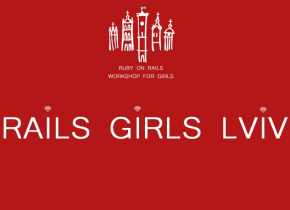
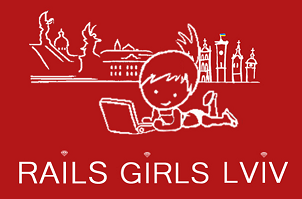
Some styles and photo added

diff --git a/lviv.html b/lviv.html
@@ -8,7 +8,7 @@
   <title>Lviv 18th April 2015</title>
 
 <!--  Write a metatext. This is what will show on the Facebook page and for instance search engines. -->
-
+  <link href='http://fonts.googleapis.com/css?family=Quicksand' rel='stylesheet' type='text/css'>
   <meta name="description" content="Rails Girls goes (insert cityname) (insert date): join the two-day crash-course to the exciting world of building web applications with Ruby on Rails.">
   <meta name="author" content="Rails Girls">
 
@@ -16,18 +16,25 @@
   <link rel="apple-touch-icon" href="/apple-touch-icon.png">
 
   <link rel="stylesheet" href="./css/style.css">
-
-  <script type="text/javascript" src="https://ajax.googleapis.com/ajax/libs/jquery/1.4.4/jquery.min.js"></script>
+  <link rel="stylesheet" href="https://maxcdn.bootstrapcdn.com/bootstrap/3.3.4/css/bootstrap.min.css">
+  <link rel="stylesheet" href="https://maxcdn.bootstrapcdn.com/bootstrap/3.3.4/css/bootstrap-theme.min.css">
   <script type="text/javascript" src="main.js"></script>
   <script type="text/javascript" src="https://apis.google.com/js/plusone.js"></script>
   <script type="text/javascript" src="//use.typekit.net/nbs6fzt.js"></script>
   <script type="text/javascript">try{Typekit.load();}catch(e){}</script>
-
 	<meta property="og:image" content="http://railsgirls.com/images/railsgirls-sq.png"/>
       <!--[if lt IE 9]>
       <script src="//html5shim.googlecode.com/svn/trunk/html5.js"></script>
       <![endif]-->
     </head>
+    <style>
+    .lviv#promo h1, h2, h3, h4, p, a{
+      font-family: 'Quicksand', sans-serif;
+    }
+    .page h1, a, p{
+      font-family: 'Quicksand', sans-serif;
+    }
+    </style>
     <body>
 
         <header>
@@ -44,74 +51,6 @@
         </div>
         </header>
 
-
-<!--   How to change the picture & header for site
-In the assets folder there is something called rg-header.psd. Be sure to download the fonts also. Name the file rg-yourcityname-header.png and your city picture rg-yourcityname.png. Add them to /images.
-
-Steps to show on site
-1. Go to style.css
-2. Add these lines, always replacing 'yourcityname' with your actual city name.
-
-        .yourcityname#promo {
-          padding-left:340px;
-          background:url('../images/rg-yourcityname.png') no-repeat 0 10px,
-                         url('../images/separator.png') no-repeat center bottom;
-        }
-
-        It will take a while before the changes show, so don't panic!
-
--->
-
-
-<!--  Change the header text. You can include a local hello or something else that brings context. Remember to mention the workshop is free. Remember to change to wufoo form link and dates. -->
-<!--  <div id="container" class="container_12 page clearfix">
-      <div class="grid_12 omega alpha">
-        <div id="promo" class="lviv">
-        <h1>Rails Girls Lviv
-            <small>(dates) 2015</small>
-        </h1>
-        <p>Hello world!</p>
-        <p>
-            Hurray! Rails Girls comes to Lviv! During the free one-day workshop we'll dive into the magical world of Ruby on Rails. </p>
-        <p>Apply now! <a href="http://railsgirls.wufoo.com/forms/z7x0w7/">Applications</a> are open until the (insert date).</p> -->
-
-
-<!--  Update the sharing texts.-->
-
-<!--          <div id="share">
-
-            <div>
-
-            <div style="margin:0 15px 0 0;">
-              <a href="http://twitter.com/share" class="twitter-share-button" data-url="" data-text="Rails Girls (insert city) (insert date)  - apply now!" data-count="horizontal" data-via="railsgirls" data-related="railsgirls">
-            Tweet</a>
-              <script type="text/javascript" src="http://platform.twitter.com/widgets.js"></script>
-            </div>
-
-            <div id="fb-root" style=""></div>
-            <script src="http://connect.facebook.net/en_US/all.js#appId=156007477805811&amp;xfbml=1"></script>
-            <fb:like href="" layout="button_count" send="true" width="160" show_faces="false" font=""></fb:like>
-
-          </div>
-        </p>
-        </div>
-      </div>
-
-
-<!--  You can use here your own contact e-mail, or we can send you the e-mails from contact@! -->
-
-    <!--  <div class="grid_4 alpha feature">
-       <p><strong>You learn</strong> designing, prototyping and coding with the help from our coaches.</p>
-      </div>
-      <div class="grid_4 feature">
-        <p><strong>All You need</strong> is LOVE. But also you should bring your own laptop, curiosity and a sprinkle of imagination!</p>
-      </div>
-      <div class="grid_4 omega feature">
-        <p><strong>Want to help?</strong> We are looking for volunteers and Rails coaches. <a href="mailto:contact@railsgirls.com">Email us</a>.</p>
-      </div>
-
-      <hr />
--->
 <div id="container" class="container_12 page clearfix">
       <div class="grid_12 omega alpha">
         <div id="promo" class="lviv">
@@ -120,8 +59,10 @@ Steps to show on site
         </h1>
         <p>
             Hurray! Rails Girls comes to Lviv! During the free one-day workshop we'll dive into the magical world of Ruby on Rails. </p>
-        <p>Apply now! <a href="http://goo.gl/forms/9MuXT1xIMJ">Applications</a> are open until the 30th March.</p>
-        <p>If you want to be a mentor, please fill in this form! <a href="http://goo.gl/forms/DKYFPr5BRw">Applications</a> are open until the 30th March.</p>
+        <p>Apply now! Applications are open until the 30th March. </p> 
+        <p><a style="color:#d3360b" href="http://goo.gl/forms/9MuXT1xIMJ">Applications for participants</a> </p>
+        <p><a style="color:#d3360b" href="http://goo.gl/forms/DKYFPr5BRw">Applications for mentors</a> </p>
+        
 
 
 <!--  Update the sharing texts.-->
@@ -131,7 +72,7 @@ Steps to show on site
             <div>
 
             <div style="margin:0 15px 0 0;">
-              <a href="http://twitter.com/share" class="twitter-share-button" data-url="" data-text="Rails Girls Lviv 2015" data-count="horizontal" data-via="RailsGirlsDH" data-related="railsgirls">
+              <a href="http://twitter.com/share" class="twitter-share-button" data-url="" data-text="Rails Girls Lviv 2015 #RailsGirlsLviv" data-count="horizontal" data-via="RailsGirlsDH" data-related="railsgirls">
             Tweet</a>
               <script type="text/javascript" src="http://platform.twitter.com/widgets.js"></script>
             </div>
@@ -151,12 +92,17 @@ Steps to show on site
         <p><strong>You need </strong> is love, but also you need your own laptop, curiosity and a sprinkle of imagination!</p>
       </div>
       <div class="grid_4 omega feature">
-        <p><strong>Want to help?</strong> We are thinking ahead to our next workshop. If you are interested in helping in the future, please <a href="mailto:railsgirlsdh@gmail.com">email us</a>.</p>
+        <p><strong>Want to help?</strong> We are thinking ahead to our next workshop. If you are interested in helping in the future, please <a style="color:#d3360b" href="mailto:railsgirlsdh@gmail.com">email us</a>.</p>
       </div>
-      
       <hr />
 <!--  Update the texts! -->
-
+<div class="container_12">
+<div class="grid_12 alpha">
+      <h1 class="text-center"> It's time to code!
+        </h1><br>
+        <img src="./images/lviv/rails-girls.jpg" class="img-rounded">
+      </div>
+    </div>
       <div class="grid_6 alpha">
         <h2>Saturday 18th April</h2>
         <table id="schedule">
@@ -165,7 +111,7 @@ Steps to show on site
               <th>9.00 - 10.00</th>
               <td>
                 <h4>Registration & Installation </h4>
-                  Get know the attendees a little bit before hand. Bring your laptop if you can, so we can install Ruby on Rails for you.<br>
+                  Get know the attendees a little bit beforehand. Bring your laptop if you can, so we can install Ruby on Rails for you.<br>
                   
 
 
@@ -231,7 +177,7 @@ Steps to show on site
             <tr>
               <th>19:00</th>
               <td>
-                <h4>Hell yeah, afterparty!</h4>
+                <h4>Hell yeah, the end!</h4>
                   <br>
               </td></tr>
             </tr>
@@ -247,7 +193,7 @@ Steps to show on site
 
         <h3>Information</h3>
             <p>
-              <p><strong><a href="http://railsgirls.wufoo.com/forms/yourcity/">Applications</a> close:</strong> March 30th<br/>
+              <p><strong><a style="color:#d3360b" href="http://railsgirls.wufoo.com/forms/yourcity/">Applications</a> close:</strong> March 30th<br/>
                 <strong>Acceptances informed:</strong>April 3th</p>
               <strong>Location:</strong> Business Center, 2nd-4th floor
 3 George Washington St.
@@ -264,9 +210,9 @@ Lviv
        <h3>Partners</h3>
 
        <p>Rails Girls Lviv is co-organized with our awesome partners.</p><p>
-         <p>Want to help? We're looking for partners & sponsors for the non-profit event! <a href="mailto:railsgirlslviv@gmail.com>">Email us</a>! </p>
+         <p>Want to help? We're looking for partners & sponsors for the non-profit event! <a style="color:#d3360b" href="mailto:railsgirlslviv@gmail.com>">Email us</a>! </p>
          <p>
-           <a href="http://www.dataart.ru/contacts/lviv/" style="float:right; margin:0 0 0; border:0;"><img height='150px' src="./images/lviv/dataart.png" alt="Data ART"></a>
+           <a href="http://www.dataart.ru/contacts/lviv/" style="float:right; margin:0 0 0; border:0;"><img height='150px' src="./images/lviv/dataart.png" alt="Data ART" class="img-rounded"></a>
          <a href="http://www.dataart.ru/">DataART</a> is a technology consulting firm that designs and builds custom software systems. "We partner with clients to create and support innovative solutions that help businesses become a lasting success in the marketplace."</p>
      <hr/>
      <h3>FAQ</h3>
@@ -283,7 +229,7 @@ Lviv
        </p>
        <p>
          <strong>I know how to program - How can I help?</strong>
-         We’re also looking for people to be coaches. We’ll have a two-three hour workshop before the event to walk you through the curriculum. <a href="mailto:railsgirlslviv@gmail.com>">Email us</a>
+         We’re also looking for people to be coaches. We’ll have a two-three hour workshop before the event to walk you through the curriculum. <a style="color:#d3360b" href="mailto:railsgirlslviv@gmail.com>">Email us</a>
        </p>
 
 
@@ -295,26 +241,27 @@ Lviv
       <div class="coaches">
         <hr />
         <h2>Rails Girls Lviv Family</h2>
+        <br>
 
         <a href="https://twitter.com/korytsya" class="grid_3">
-            Oksana Kunikevych, organizer
-            <small>@korytsya</small>
+          <img height='50px' width='50px' src="./images/lviv/Рисунок3.png" class="img-circle">
+            <small>Oksana Kunikevych, organizer</small>
         </a>
         <a href="https://twitter.com/_Marichka______" class="grid_3">
-            Marichka Dzhala, organizer
-            <small>@_Marichka______</small>
+          <img height='50px' width='50px' src="./images/lviv/Рисунок4.png" class="img-circle">
+            <small>Marichka Dzhala, organizer</small>
         </a>
         <a href="https://twitter.com/terii8" class="grid_3">
-            Tereza Kavinska, organizer
-            <small>@terii8</small>
+          <img height='50px' width='50px' src="./images/lviv/Рисунок1.png" class="img-circle">
+            <small>Tereza Kavinska, organizer</small>
         </a>
         <a href="https://www.facebook.com/hellen.havrylyukh?fref=ts" class="grid_3">
-            Olena Havryliukh, organizer
-            <small>Olena Havryliukh</small>
+          <img height='50px' width='50px' src="./images/lviv/Рисунок2.png" class="img-circle">
+            <small>Olena Havryliukh, organizer</small>
         </a>
         <a href="https://twitter.com/GingerCo_okies" class="grid_3">
-            Ira Osoba, organizer
-            <small>@GingerCo_okies</small>
+          <img height='50px' width='50px' src="./images/lviv/Рисунок5.png" class="img-circle">
+            <small>Ira Osoba, organizer</small>
         </a>
       </div>
 
